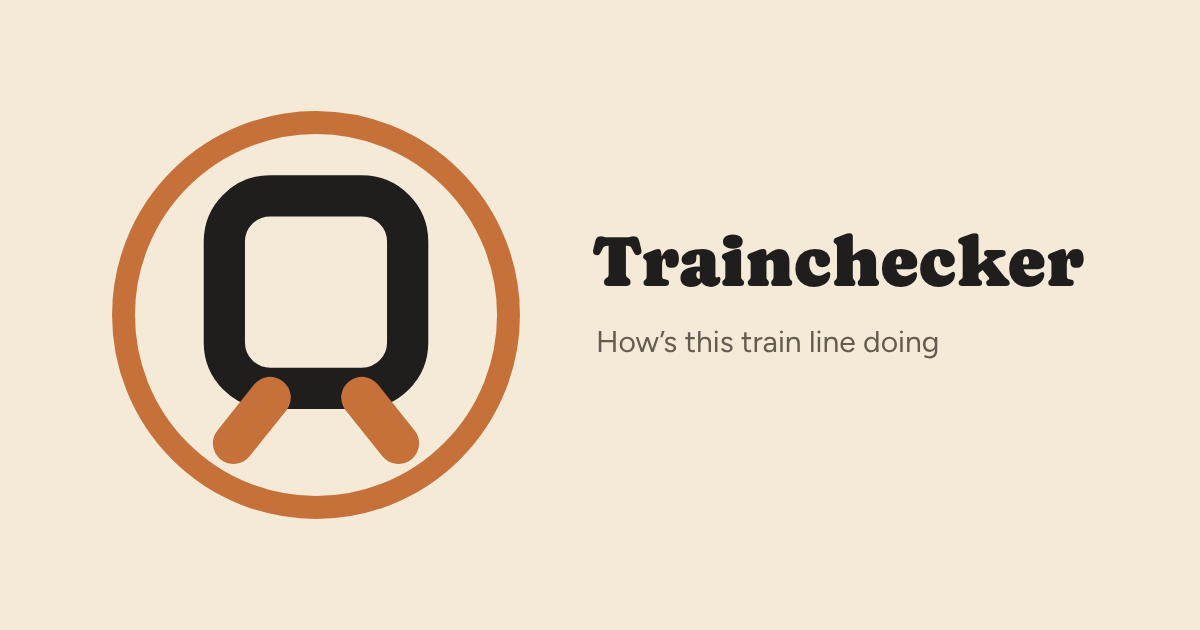
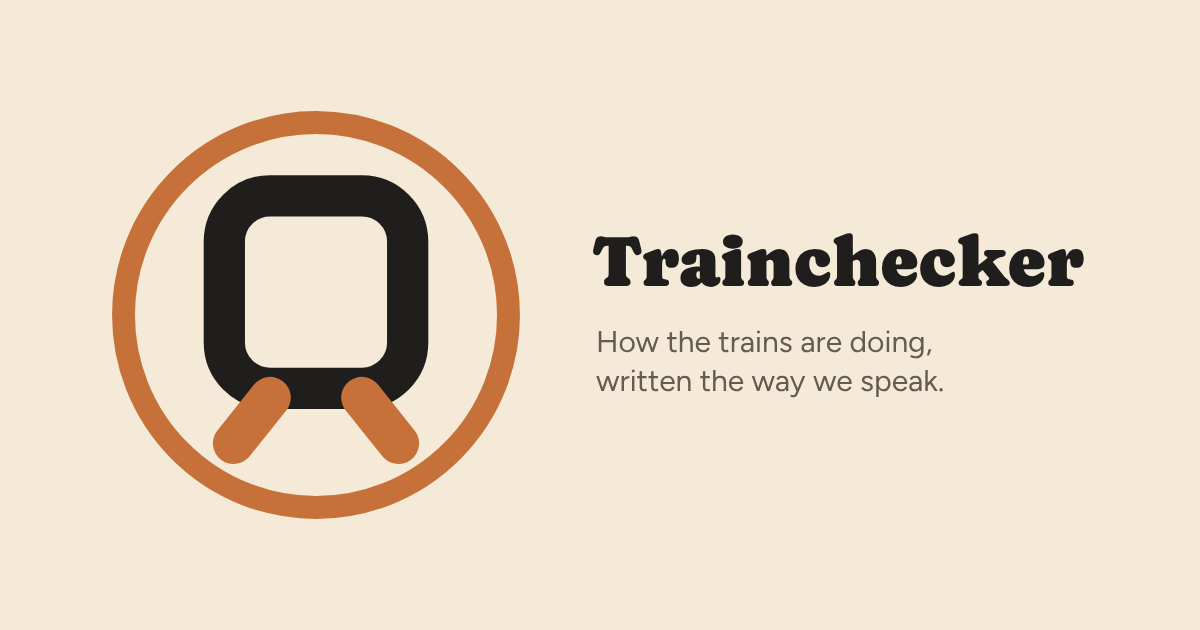
'Ten' after a spelt number; one platform 'only'; new tagline and preview picture
Claude-Session: https://claude.ai/code/session_01BsvHLG1qK9yU2SWYC2ZAsT

Changed region(s): [[0.4933, 0.5127, 0.8017, 0.6333]]

diff --git a/src/lib/sentences.ts b/src/lib/sentences.ts
@@ -12,6 +12,13 @@ const WORDS = ['zero', 'one', 'two', 'three', 'four', 'five', 'six', 'seven', 'e
 export const num = (n: number) => (Number.isInteger(n) && n >= 0 && n < 10 ? WORDS[n] : n.toLocaleString('en-GB'))
 export const Cap = (s: string) => s[0].toUpperCase() + s.slice(1)
 
+/** "10" spelt "ten" when it follows a spelt number closely, within two words (John, November 18th
+ *  2026): "nine in ten", "four and ten minutes late". Not a time ("10.30pm") or a platform. */
+export function tenAfterWords(s: string): string {
+  return s.replace(/\b(one|two|three|four|five|six|seven|eight|nine)\b((?:\s+\S+){0,2}?)\s+10\b(?![.:]\d|\s*[ap]m)/gi,
+    (m, w: string, mid: string) => (/platforms?$/i.test(mid.trim()) ? m : `${w}${mid} ten`))
+}
+
 /** "18:26" → "6.26pm"; "19:00" → "7pm"; "12:00" → "midday"; "00:00" → "midnight" (§15). */
 export function t12(hhmm: string): string {
   const [h, m] = hhmm.split(':').map(Number)
@@ -117,7 +124,7 @@ export function lastTwoLines(a: Analysis): string[] {
   }
   // "Two trains didn't run at all." (John, November 18th 2026.)
   if (c) out.push(L.known ? `${Cap(num(c))} ${c === 1 ? "train didn't" : "trains didn't"} run at all.` : `${Cap(num(c))} ${c === 1 ? 'train was' : 'trains were'} cancelled.`)
-  return out
+  return out.map(tenAfterWords)
 }
 
 /** A line of the verdict: an opening in bold ("Good news:") and the rest. */
@@ -176,7 +183,7 @@ export function verdict(a: Analysis): Verdict {
   // The last two hours are never in the verdict now: they stay in their own box, and when they
   // were bad, "Good news" says "leaving on time" instead of "running well" (John, November 17th
   // 2026, stage 4; replaces N5).
-  return { kind, lines }
+  return { kind, lines: lines.map((l) => ({ ...l, text: tenAfterWords(l.text) })) }
 }
 
 /** "because of A and B", or "mostly because of A", or nothing. */
@@ -304,7 +311,7 @@ export function nextFour(a: Analysis): NextFour | null {
     }
   })
   const fold = !rows.length ? null : rows.length === 1 ? "Show the train that isn't on time" : `Show the ${num(rows.length)} trains that aren't on time`
-  return { lines: [lines[0], lines.slice(1).join(' ')].filter(Boolean), rows, fold }
+  return { lines: [lines[0], lines.slice(1).join(' ')].filter(Boolean).map(tenAfterWords), rows, fold }
 }
 
 /** Platforms for each kind of train, when the trains fall into groups (John, November 18th 2026:
@@ -354,7 +361,7 @@ export function platforms(a: Analysis): string | null {
     if (a.platKnown === 1) return `The train is currently going from platform ${p1}.`
     return rest.length ? `One train is currently going from platform ${p1} and the other from platform ${rest[0][0]}.` : `Both trains are currently going from platform ${p1}.`
   }
-  if (a.platKnown === 1) return `So far, a platform has been announced for one train: platform ${p1}.`
+  if (a.platKnown === 1) return `So far, a platform has only been announced for one train: platform ${p1}.`
   if (a.platKnown === 2) return rest.length ? `So far, platforms have been announced for two trains: platforms ${p1} and ${rest[0][0]}.` : `So far, platforms have been announced for two trains, both platform ${p1}.`
   const byKind = platformsByKind(a)
   if (byKind) return byKind
@@ -397,7 +404,7 @@ export function shareWords(a: Analysis): { text: string; title: string; hash: st
     const r = mainReason([...a.cancelled, ...a.late5])
     body = `be prepared. Of the next ${num(a.ahead.length)}, ${num(a.cancelled.length)} ${was(a.cancelled.length)} cancelled${r ? `, mostly because of ${r}` : ''}.`
   }
-  return { text: lead + body + ' From Trainchecker.', title, hash }
+  return { text: tenAfterWords(lead + body + ' From Trainchecker.'), title, hash }
 }
 
 // ---- The last week (SPEC §8.10) ----
@@ -485,7 +492,7 @@ export function lastWeekText(c: WeekCounts, o: { from: string; to: string; kind:
   let rest = lastWeekOthers(n, c.w3, c.w10, c.w30, c.w120)
   // When none were within three minutes there are no "others" (agreed by John, November 17th 2026).
   if (k === 0) rest = rest.replace(/^Of the others,/, 'Of these,').replace(/^The others were/, 'They were')
-  return `${first}${rest ? ' ' + rest : ''}${more}`
+  return tenAfterWords(`${first}${rest ? ' ' + rest : ''}${more}`)
 }
 
 /** The quote's Share words (SPEC §8.13). */

diff --git a/scripts/check-rules.ts b/scripts/check-rules.ts
@@ -14,7 +14,7 @@ import { trim, type RawBoard } from '../api/live.ts'
 import { count } from '../api/week.ts'
 import { analyse, diff, type Snap, type Analysis } from '../src/lib/analyse.ts'
 import {
-  verdict, nextFour, platforms, platformsByKind, lastTwoLines, shareWords, share, lastWeekOthers, lastWeekText, weekFor, t12, dayName,
+  tenAfterWords, verdict, nextFour, platforms, platformsByKind, lastTwoLines, shareWords, share, lastWeekOthers, lastWeekText, weekFor, t12, dayName,
   hourLabel, HOURS, quoteShareText, type Line,
 } from '../src/lib/sentences.ts'
 import { quoteOfTheDay, QUOTES } from '../src/data/quotes.ts'
@@ -77,7 +77,7 @@ for (const f of files) {
   // the trains … which weren't cancelled" and "didn't run at all"; one or two late trains in their
   // own tense. The mock-ups are compared where none of these apply.
   const digits = (l: string) => l.replace('nineteen in twenty', '19 in 20').replace('nine in ten', 'nine in 10').replace('one in ten', 'one in 10').replace('one in twenty', 'one in 20')
-  if (!a.last.cancelled.length && !(a.last.tense === 'mixed' && a.last.lates.length <= 2)) eq(`${f}: last two hours`, lastTwoLines(a), (S.lastTwoLines(m) as string[]).map(digits))
+  if (!a.last.cancelled.length && !(a.last.tense === 'mixed' && a.last.lates.length <= 2)) eq(`${f}: last two hours`, lastTwoLines(a), (S.lastTwoLines(m) as string[]).map(digits).map(tenAfterWords))
   const when = { time: t12(m.now), date: dayName(new Date(m.taken)).replace(/^\w+ /, '') }
   if (!a.lastGone) eq(`${f}: share`, shareWords(a).text, S.shareWords(m, when).text)
   const bad = pageText(a).filter((t) => /undefined|null|NaN|\[object/.test(t))
@@ -173,8 +173,10 @@ const kyMixed = changed('KGX-YRK', (sv, a) => {
   for (const t of a.past.filter((y) => y.eta === 'On time').slice(0, 2)) sv.find((y) => y.id === t.id)!.ata = t.sta
 })
 eq('one late train, its own tense', [kyMixed.last.tense, lastTwoLines(kyMixed)[1]], ['mixed', 'The other is expected to be six minutes late.'])
+eq('ten after a spelt number (John)', ['about nine in 10 trains', 'one in 10', 'The other two were four and 10 minutes late.', 'one was less than 10 minutes late', 'at 10.30pm', 'four from platform 10', '19 in 20', 'about 10 trains an hour'].map(tenAfterWords),
+  ['about nine in ten trains', 'one in ten', 'The other two were four and ten minutes late.', 'one was less than 10 minutes late', 'at 10.30pm', 'four from platform 10', '19 in 20', 'about 10 trains an hour'])
 eq('this train, in the list', nextFour(bthBri)!.rows[1].reason, 'A fault on this train.')
-eq('platforms, one known of many', platforms(A('KGX-YRK')), 'So far, a platform has been announced for one train: platform 3.')
+eq('platforms, one known of many', platforms(A('KGX-YRK')), 'So far, a platform has only been announced for one train: platform 3.')
 eq('two on time (John)', nextFour(changed('PAD-RDG', (sv, a) => { const keep = new Set(ids(a).slice(0, 2)); for (let i = sv.length - 1; i >= 0; i--) if (a.ahead.some((t) => t.id === sv[i].id) && !keep.has(sv[i].id)) sv.splice(i, 1) }))!.lines[1], 'Both are expected on time.')
 eq('both (John)', [share(2, 2).trains, share(2, 2).bare, share(3, 3).trains], ['both trains', 'both', 'all three trains'])
 

diff --git a/design/og-trainchecker.html b/design/og-trainchecker.html
@@ -1,0 +1,12 @@
+<!doctype html><!-- The link-preview picture (public/og-trainchecker.png), option A with John's tagline of November 18th 2026. Fonts from node_modules (house style §7). Remake: node design/og-shoot.cjs -->
+<html lang="en-GB"><head><meta charset="utf-8"><title>Trainchecker link preview</title>
+<style>
+@font-face{font-family:Caprasimo;font-weight:400;src:url(../node_modules/@fontsource/caprasimo/files/caprasimo-latin-400-normal.woff2) format("woff2")}
+@font-face{font-family:Figtree;font-weight:400;src:url(../node_modules/@fontsource/figtree/files/figtree-latin-400-normal.woff2) format("woff2")}
+</style>
+<style>html,body{margin:0}body{width:1200px;height:630px;background:#f5ead8;position:relative;overflow:hidden;font-family:Figtree,sans-serif;color:#201e1d}
+svg{position:absolute;left:96px;top:95px;width:440px;height:440px}
+h1{position:absolute;left:592px;top:225px;margin:0;font-family:Caprasimo,serif;font-weight:400;font-size:72px;line-height:1}
+p{position:absolute;left:596px;top:322px;margin:0;font-size:30px;line-height:1.3;width:580px;color:#645c50}</style></head>
+<body><svg viewBox="0 0 48 48"><circle cx="24" cy="24" r="21" fill="#f5ead8" stroke="#c67139" stroke-width="2.5"/><rect x="14" y="11" width="20" height="21" rx="5" fill="none" stroke="#201e1d" stroke-width="4.5"/><path d="M15 38 L19 33 M33 38 L29 33" stroke="#c67139" stroke-width="4.5" stroke-linecap="round"/></svg>
+<h1>Trainchecker</h1><p>How the trains are doing,<br>written the way we speak.</p></body></html>

diff --git a/SPEC.md b/SPEC.md
@@ -1,6 +1,6 @@
 # Trainchecker: spec (draft)
 
-**Tagline:** "How's this train line doing" (John, November 17th 2026).
+**Tagline:** "How the trains are doing, written the way we speak." (John, November 18th 2026; was "How's this train line doing", November 17th 2026).
 
 Draft by Claude Code, November 17th 2026, from John's brief in
 `design/handover-2026-11-17.md`. Everything here is for John to agree. The
@@ -420,3 +420,11 @@ Asked for by John on November 17th 2026, before stage 4's work; built on the sta
     or Bond Street is one end; and in place of "no trains left…" when an Elizabeth Line journey's
     answer is empty.
 35. **A cross (×) in the station boxes** to empty them in one tap (John), keeping the cursor there.
+36. **"Ten" after a spelt number** (John): "10" is spelt when it follows one to nine within two
+    words ("nine in ten", "four and ten minutes late"); otherwise digits ("one was less than 10
+    minutes late"). Not for times or platforms.
+37. **One platform known:** "So far, a platform has only been announced for one train: platform
+    12A." (John).
+38. **The tagline** (John): "How the trains are doing, written the way we speak." The link-preview
+    picture remade (`design/og-trainchecker.html`, `node design/og-shoot.cjs`, fonts from
+    `node_modules`), broken after the comma.

diff --git a/CLAUDE.md b/CLAUDE.md
@@ -54,6 +54,18 @@ given its own branch). Before committing there, run
 
 ## Log
 
+### November 18th 2026: "ten", one platform, the new tagline (branch `claude/inspiring-pascal-h96tqk`; Claude Code)
+
+- **John:** "ten" when it closely follows a spelt number; "has only been announced" for one
+  platform; tagline "How the trains are doing, written the way we speak."; yes to the Ealing
+  Broadway idea; Tiverton Parkway to Paddington has no slower trains (1h58, 1h58, 2h00), to debug.
+  `SPEC.md` top and §10.36 to §10.38.
+- **Built:** `tenAfterWords()` on every generated sentence; the preview picture remade from a new
+  source (`design/og-trainchecker.html`, `design/og-shoot.cjs`; the old option A loaded Google's
+  fonts).
+- **Checked:** `npm run check` 167 + 50 + 68; `tsc -b`, lint; the picture looked at (both fonts
+  loaded, the script stops if not).
+
 ### November 18th 2026: cancellations, tenses, platforms, the last week, no record, a cross in the boxes (branch `claude/inspiring-pascal-h96tqk`; Claude Code)
 
 - **John (the preview):** "which weren't cancelled" and "didn't run at all"; digits for "19 in 20";
